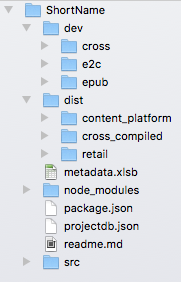
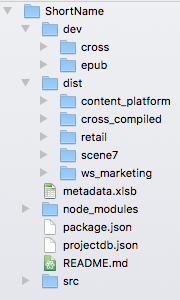
complete the CSS library

diff --git a/source/_posts/2017-05-23-post.md b/source/_posts/2017-05-23-post.md
@@ -4,12 +4,12 @@ title: Style Guide Updates
 This release incorporates all changes that support our new project directory structure and scripting needs:
 
 ## Process
-  * [Project Admin](../process/project_admin.html) no longer includes creating the Git and GitHub repos.
-  * The [Git and Github](../process/git.html) page is now just a general Git reference.
-  * Triage has become [Project Scaffolding](../process/proj_scaffold.html) and has a video and details on the new project directory structure and the start-project module.
-  * [EPUB Directories and Files](../process/epub_dir.html) includes a video and details for the new node split-files module.
+  * [Project Admin](../../../../../process/project_admin.html) no longer includes creating the Git and GitHub repos.
+  * The [Git and Github](../../../../../process/git.html) page is now just a general Git reference.
+  * Triage has become [Project Scaffolding](../../../../../process/proj_scaffold.html) and has a video and details on the new project directory structure and the start-project module.
+  * [EPUB Directories and Files](../../../../../process/epub_dir.html) includes a video and details for the new node split-files module.
 
 ## Code
-  * [Constructing an EPUB](../code/construction.html) has the latest conventions for naming EPUB files and directories *(and removes the video.svg requirement)*.
-  * [EPUB Metadata](../code/metadata.html) greatly reduces the number of required metadata elements.
-  * The [Copyright Page](../code/structural_types.html#Copyright-Page) section outlines the requirements for special copyright page classes.
+  * [Constructing an EPUB](../../../../../code/construction.html) has the latest conventions for naming EPUB files and directories *(and removes the video.svg requirement)*.
+  * [EPUB Metadata](../../../../../code/metadata.html) greatly reduces the number of required metadata elements.
+  * The [Copyright Page](../../../../../code/structural_types.html#Copyright-Page) section outlines the requirements for special copyright page classes.

diff --git a/source/css_lib/paragraphs.md b/source/css_lib/paragraphs.md
@@ -1,4 +1,4 @@
-title: Paragraphs
+title: Paragraphs - General
 ---
 
 ## Tag
@@ -11,5 +11,5 @@ title: Paragraphs
 * `.br-before`
 * `.hang`
 
-<p data-height="401" data-theme-id="28900" data-slug-hash="0d4b6fe52e8d2e86f7ca017a431b11a7" data-default-tab="html,result" data-user="bhdirect" data-embed-version="2" data-pen-title="Paragraphs" class="codepen">See the Pen <a href="http://codepen.io/bhdirect/pen/0d4b6fe52e8d2e86f7ca017a431b11a7/">Paragraphs</a> by BH Direct (<a href="http://codepen.io/bhdirect">@bhdirect</a>) on <a href="http://codepen.io">CodePen</a>.</p>
+<p data-height="524" data-theme-id="28900" data-slug-hash="0d4b6fe52e8d2e86f7ca017a431b11a7" data-default-tab="html,result" data-user="bhdirect" data-embed-version="2" data-pen-title="Paragraphs - General" class="codepen">See the Pen <a href="https://codepen.io/bhdirect/pen/0d4b6fe52e8d2e86f7ca017a431b11a7/">Paragraphs - General</a> by BH Direct (<a href="https://codepen.io/bhdirect">@bhdirect</a>) on <a href="https://codepen.io">CodePen</a>.</p>
 <script async src="https://production-assets.codepen.io/assets/embed/ei.js"></script>

diff --git a/source/css_lib/notes.md b/source/css_lib/notes.md
@@ -1,0 +1,24 @@
+title: Footnotes
+---
+
+## Tags
+
+* `<footer>` or
+* `<section>`
+* along with `<div>`, `<sup>`, `<span>`
+
+## EPUB Type and Class
+
+Footer, when in chapter; Section when separate doc
+
+**For use with `<footer>` or `<section>`**
+* `epub:type="footnotes"` (plural)
+
+**For use with `<div>`**
+* `epub:type="footnote"` (singular)
+
+**For use with `<span>`**
+* `.note` - has no style; necessary for conversion to Cross
+
+<p data-height="184" data-theme-id="28900" data-slug-hash="584347d3808d09175fee5d2dbe588bc6" data-default-tab="html,result" data-user="bhdirect" data-embed-version="2" data-pen-title="Footnotes" class="codepen">See the Pen <a href="https://codepen.io/bhdirect/pen/584347d3808d09175fee5d2dbe588bc6/">Footnotes</a> by BH Direct (<a href="https://codepen.io/bhdirect">@bhdirect</a>) on <a href="https://codepen.io">CodePen</a>.</p>
+<script async src="https://production-assets.codepen.io/assets/embed/ei.js"></script>

diff --git a/source/css_lib/lists.md b/source/css_lib/lists.md
@@ -1,0 +1,34 @@
+title: Lists
+---
+
+## Tags
+
+* `<dl>`
+* `<ol>`
+* `<ul>`
+
+## Classes
+
+**For use with `<dl>`**
+* `.abbr-list`
+
+**For use with `<ol>`**
+* `.upper-roman`
+* `.lower-roman`
+* `.upper-alpha`
+* `.lower-alpha`
+* `.digit`
+
+**Qualifying classes - use along with the above classes only**
+* `.paren`
+* `.right-paren`
+
+**For use with `<ul>`**
+* `.disc`
+* `.circle`
+* `.square`
+* `.none`
+
+
+<p data-height="2666" data-theme-id="28900" data-slug-hash="981475e87c81c7e80e3a9e51e15ca2c6" data-default-tab="html,result" data-user="bhdirect" data-embed-version="2" data-pen-title="Lists" class="codepen">See the Pen <a href="https://codepen.io/bhdirect/pen/981475e87c81c7e80e3a9e51e15ca2c6/">Lists</a> by BH Direct (<a href="https://codepen.io/bhdirect">@bhdirect</a>) on <a href="https://codepen.io">CodePen</a>.</p>
+<script async src="https://production-assets.codepen.io/assets/embed/ei.js"></script>

diff --git a/source/process/proj_scaffold.md b/source/process/proj_scaffold.md
@@ -9,6 +9,13 @@ Become familiar with the project directory structure:
 
 ![Screen shot of our project directory structure.](../assets/images/project-dir.png)
 
+The video below briefly describes each part of the structure. The video describes a prior iteration of the project directory. Changes since the video:
+* The `e2c` folder has been moved out of the `dev` folder and is now a hidden folder (`.e2c`) in the root project directory.
+* Two new folders have been added:
+  * `dist/scene7` now holds the cover images for Scene7 (and `dist/content_platform` has only EPUBs)
+  * `dist/ws_marketing` now holds the WORDsearch cover images and sample html files for the WS website
+
+
 <iframe width="560" height="315" src="https://www.youtube.com/embed/lT9YCsChMSM" frameborder="0" allowfullscreen></iframe>
 
 ## Related Tools/Scripts

diff --git a/source/css_lib/width.md b/source/css_lib/width.md
@@ -1,0 +1,15 @@
+title: Width Classes
+---
+
+## Tags
+
+* any, but primarily used to resize images and table columns
+
+## Classes
+
+* `.col-1`, `.col-2`, `.col-3`, `.col-4`, `.col-5`, `.col-6`, `.col-7`, `.col-8`, `.col-9`, `.col-10`, `.col-11`, `.col-12`
+
+Each width is (1/12) * the col- number.
+
+<p data-height="774" data-theme-id="28865" data-slug-hash="30237459fb06459aaf3f6dff9b1b3e24" data-default-tab="result" data-user="bhdirect" data-embed-version="2" data-pen-title="Width Classes" class="codepen">See the Pen <a href="https://codepen.io/bhdirect/pen/30237459fb06459aaf3f6dff9b1b3e24/">Width Classes</a> by BH Direct (<a href="https://codepen.io/bhdirect">@bhdirect</a>) on <a href="https://codepen.io">CodePen</a>.</p>
+<script async src="https://production-assets.codepen.io/assets/embed/ei.js"></script>

diff --git a/source/css_lib/poetry.md b/source/css_lib/poetry.md
@@ -1,0 +1,21 @@
+title: Poetry
+---
+
+## Tags
+
+* `<div>` or
+* `<p>`
+
+## Classes
+
+Use one approach or the other:
+
+**For use with `<div>`**
+* `.poetry`
+
+**For use with `<p>`**
+* `.poem1`, `.poem2`, `.poem3`, `.poem4`, `.poem5`,
+  `.poem6`, `.poem7`, `.poem8`, `.poem9`, `.poem10`
+
+  <p data-height="838" data-theme-id="28900" data-slug-hash="63b18efc6351d260d52c404da4c7af26" data-default-tab="html,result" data-user="bhdirect" data-embed-version="2" data-pen-title="Poetry" class="codepen">See the Pen <a href="https://codepen.io/bhdirect/pen/63b18efc6351d260d52c404da4c7af26/">Poetry</a> by BH Direct (<a href="https://codepen.io/bhdirect">@bhdirect</a>) on <a href="https://codepen.io">CodePen</a>.</p>
+  <script async src="https://production-assets.codepen.io/assets/embed/ei.js"></script>

diff --git a/source/css_lib/articles.md b/source/css_lib/articles.md
@@ -1,0 +1,18 @@
+title: Dictionary Articles
+---
+
+## Tags
+
+* `<article>`
+* `<dfn>`
+
+## EPUB Type and Class
+
+**For use with `<article>` only**
+* `epub:type="dictentry"`
+
+**For use with dictionary article `h2` tags**
+* `.nd` - (CSS = `display: none`)
+
+<p data-height="525" data-theme-id="28900" data-slug-hash="fb373d8b79ea59120c97ddc76a53715a" data-default-tab="html,result" data-user="bhdirect" data-embed-version="2" data-pen-title="Dictionary Articles" class="codepen">See the Pen <a href="https://codepen.io/bhdirect/pen/fb373d8b79ea59120c97ddc76a53715a/">Dictionary Articles</a> by BH Direct (<a href="https://codepen.io/bhdirect">@bhdirect</a>) on <a href="https://codepen.io">CodePen</a>.</p>
+<script async src="https://production-assets.codepen.io/assets/embed/ei.js"></script>

diff --git a/source/css_lib/languages.md b/source/css_lib/languages.md
@@ -1,0 +1,18 @@
+title: Languages
+---
+
+## Tags
+
+* `<p>`
+* `<span>`
+
+## Classes
+
+* `.lang-grc` - Greek
+* `.lang-hbo` - Hebrew
+* `.lang` - all other, non-english languages and transliterations
+* `.translit` - an alias of `.lang` for transliterations
+
+
+<p data-height="327" data-theme-id="28900" data-slug-hash="f210eac2d666c834b05ede0f3646f00e" data-default-tab="html,result" data-user="bhdirect" data-embed-version="2" data-pen-title="Languages" class="codepen">See the Pen <a href="https://codepen.io/bhdirect/pen/f210eac2d666c834b05ede0f3646f00e/">Languages</a> by BH Direct (<a href="https://codepen.io/bhdirect">@bhdirect</a>) on <a href="https://codepen.io">CodePen</a>.</p>
+<script async src="https://production-assets.codepen.io/assets/embed/ei.js"></script>

diff --git a/source/css_lib/tables.md b/source/css_lib/tables.md
@@ -1,0 +1,17 @@
+title: Tables
+---
+
+## Tag
+
+* `<table>`
+
+## Classes
+
+**For use with `<div>`**
+* `.table` - always wrap `<table></table>` with `div.table`
+
+**For use with `<table>`, `<th>`, `<td>`, `<thead>`, or `<tbody>`**
+* `.bdr` - apply a border
+
+<p data-height="1245" data-theme-id="28900" data-slug-hash="b6e67027bb16239e55ec8ebd2684824c" data-default-tab="html,result" data-user="bhdirect" data-embed-version="2" data-pen-title="Tables" class="codepen">See the Pen <a href="https://codepen.io/bhdirect/pen/b6e67027bb16239e55ec8ebd2684824c/">Tables</a> by BH Direct (<a href="https://codepen.io/bhdirect">@bhdirect</a>) on <a href="https://codepen.io">CodePen</a>.</p>
+<script async src="https://production-assets.codepen.io/assets/embed/ei.js"></script>

diff --git a/source/css_lib/quotes.md b/source/css_lib/quotes.md
@@ -1,0 +1,21 @@
+title: Quotes
+---
+
+## Tags
+
+* `<blockquote>`
+* `<div>`
+
+## Classes
+
+**Scripture, for use with `<blockquote>`**
+* `.scriptext`
+
+**Pull quotes, for use with `<div>`**
+* `.pullquotel`
+* `.pullquotec`
+* `.pullquoter`
+
+
+<p data-height="1608" data-theme-id="28900" data-slug-hash="2b06a51fbd19fcc11a0b108b84b60c45" data-default-tab="html,result" data-user="bhdirect" data-embed-version="2" data-pen-title="Quotes" class="codepen">See the Pen <a href="https://codepen.io/bhdirect/pen/2b06a51fbd19fcc11a0b108b84b60c45/">Quotes</a> by BH Direct (<a href="https://codepen.io/bhdirect">@bhdirect</a>) on <a href="https://codepen.io">CodePen</a>.</p>
+<script async src="https://production-assets.codepen.io/assets/embed/ei.js"></script>

diff --git a/source/css_lib/bibles.md b/source/css_lib/bibles.md
@@ -1,0 +1,18 @@
+title: Bibles
+---
+
+## Tag
+
+* `<span>`
+* `<p>`
+
+## Classes
+
+**For use with `<span>` for every verse number**
+* `.versenum`
+
+**For use with `<p>` in the Psalms, for the Selah line only**
+* `.selah`
+
+<p data-height="304" data-theme-id="28900" data-slug-hash="5873af71a407f0da2229e3e9b6772279" data-default-tab="html,result" data-user="bhdirect" data-embed-version="2" data-pen-title="Bibles" class="codepen">See the Pen <a href="https://codepen.io/bhdirect/pen/5873af71a407f0da2229e3e9b6772279/">Bibles</a> by BH Direct (<a href="https://codepen.io/bhdirect">@bhdirect</a>) on <a href="https://codepen.io">CodePen</a>.</p>
+<script async src="https://production-assets.codepen.io/assets/embed/ei.js"></script>
